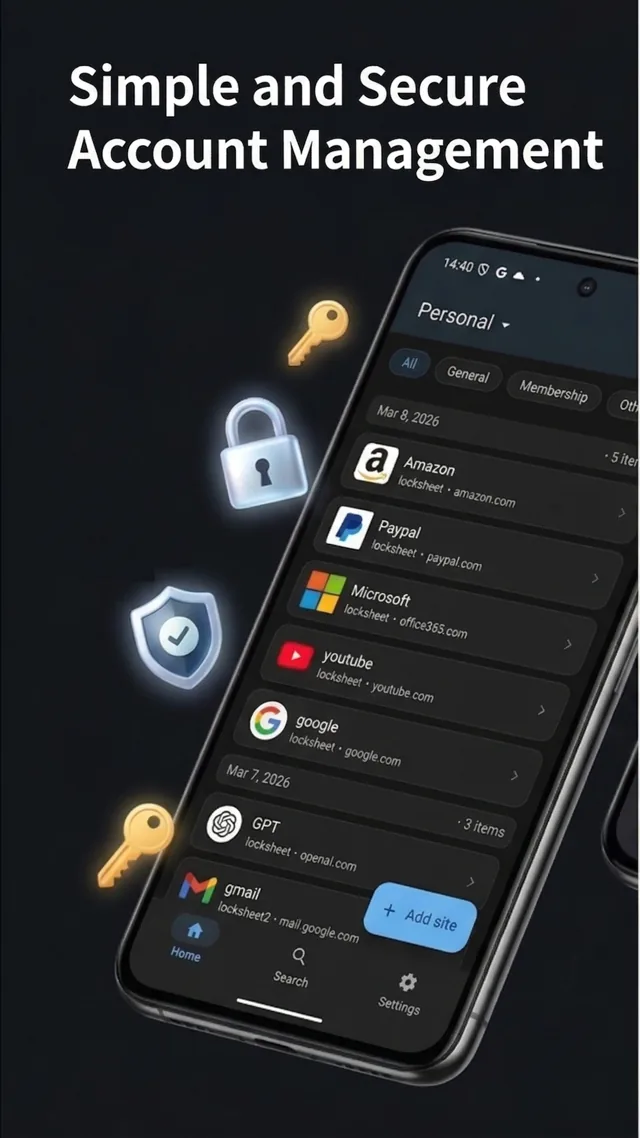
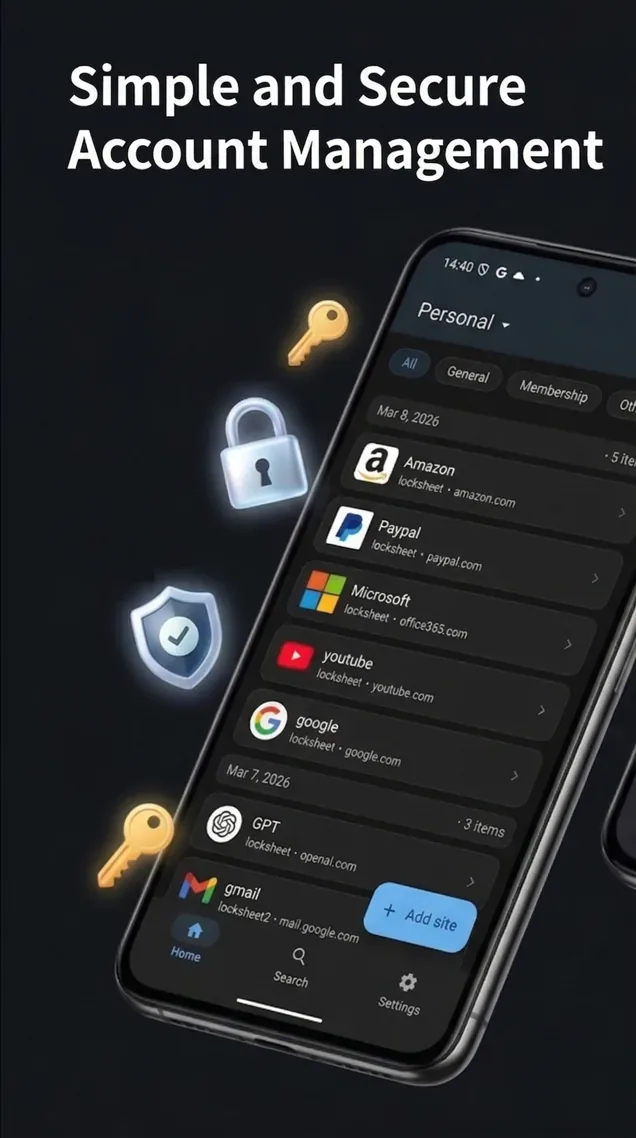
Crop white edge from English LockSheet screenshot

diff --git a/public/en/apps/locksheet/index.html b/public/en/apps/locksheet/index.html
@@ -13,7 +13,7 @@
     <meta property="og:site_name" content="JinoSoft">
     <meta property="og:title" content="LockSheet - JinoSoft">
     <meta property="og:description" content="Manage login details, passwords, 2FA codes, and notes on your device.">
-    <meta property="og:image" content="https://jinosoft.com/assets/screenshots/en/locksheet/screen-1.webp">
+    <meta property="og:image" content="https://jinosoft.com/assets/screenshots/en/locksheet/screen-1.webp?v=2">
     <link rel="icon" href="/assets/favicon-96.png" type="image/png" sizes="96x96">
     <link rel="manifest" href="/site.webmanifest">
     <link rel="stylesheet" href="/styles.css?v=1.1.0">
@@ -33,7 +33,7 @@
     <main>
       <section class="app-hero app-hero-locksheet">
         <div class="app-hero-content"><p class="eyebrow">LockSheet</p><h1>Password management</h1><p>Keep login IDs, passwords, 2FA codes, and notes together.</p><div class="hero-actions"><a class="button button-primary" href="https://play.google.com/store/apps/details?id=com.jinosoft.locksheet&amp;hl=en_US" rel="noopener">View on Google Play</a><a class="button button-secondary" href="mailto:support@jinosoft.com">Contact support</a></div></div>
-        <div class="store-screen-preview" aria-label="LockSheet screenshot"><img decoding="async" src="/assets/screenshots/en/locksheet/screen-1.webp" alt="LockSheet password manager introduction"></div>
+        <div class="store-screen-preview" aria-label="LockSheet screenshot"><img decoding="async" src="/assets/screenshots/en/locksheet/screen-1.webp?v=2" alt="LockSheet password manager introduction"></div>
       </section>
 
       <section class="section app-overview-section" aria-labelledby="locksheet-overview-title"><div class="section-inner app-overview-layout"><div class="section-heading"><p class="section-kicker">Overview</p><h2 id="locksheet-overview-title">Manage accounts on your device</h2><p>LockSheet works without a server account. Store, organize, search, back up, and export your account details from the app.</p></div><dl class="app-profile" aria-label="LockSheet at a glance"><div><dt>Category</dt><dd>Password manager</dd></div><div><dt>Platform</dt><dd>Android / Google Play</dd></div><div><dt>Features</dt><dd>Login IDs, passwords, 2FA codes, notes, groups, and categories</dd></div><div><dt>Security</dt><dd>AES-256-GCM encryption, biometric authentication, encrypted backup, PDF export</dd></div><div><dt>Support</dt><dd>support@jinosoft.com</dd></div></dl></div></section>
@@ -45,7 +45,7 @@
       </div></section>
 
       <section class="section screenshots-section" aria-labelledby="locksheet-screenshots-title"><div class="section-inner"><div class="section-heading"><p class="section-kicker">App Screens</p><h2 id="locksheet-screenshots-title">Inside LockSheet</h2><p>Account lists, search, data entry, app lock, and backup.</p></div><div class="screenshot-strip" aria-label="LockSheet app screenshots">
-        <figure><img loading="lazy" decoding="async" src="/assets/screenshots/en/locksheet/screen-1.webp" alt="Introduction to LockSheet password management"><figcaption>Overview</figcaption></figure>
+        <figure><img loading="lazy" decoding="async" src="/assets/screenshots/en/locksheet/screen-1.webp?v=2" alt="Introduction to LockSheet password management"><figcaption>Overview</figcaption></figure>
         <figure><img loading="lazy" decoding="async" src="/assets/screenshots/en/locksheet/screen-2.webp" alt="LockSheet account search and details"><figcaption>Accounts</figcaption></figure>
         <figure><img loading="lazy" decoding="async" src="/assets/screenshots/en/locksheet/screen-3.webp" alt="LockSheet account overview"><figcaption>Account list</figcaption></figure>
         <figure><img loading="lazy" decoding="async" src="/assets/screenshots/en/locksheet/screen-4.webp" alt="Search accounts in LockSheet"><figcaption>Search</figcaption></figure>
